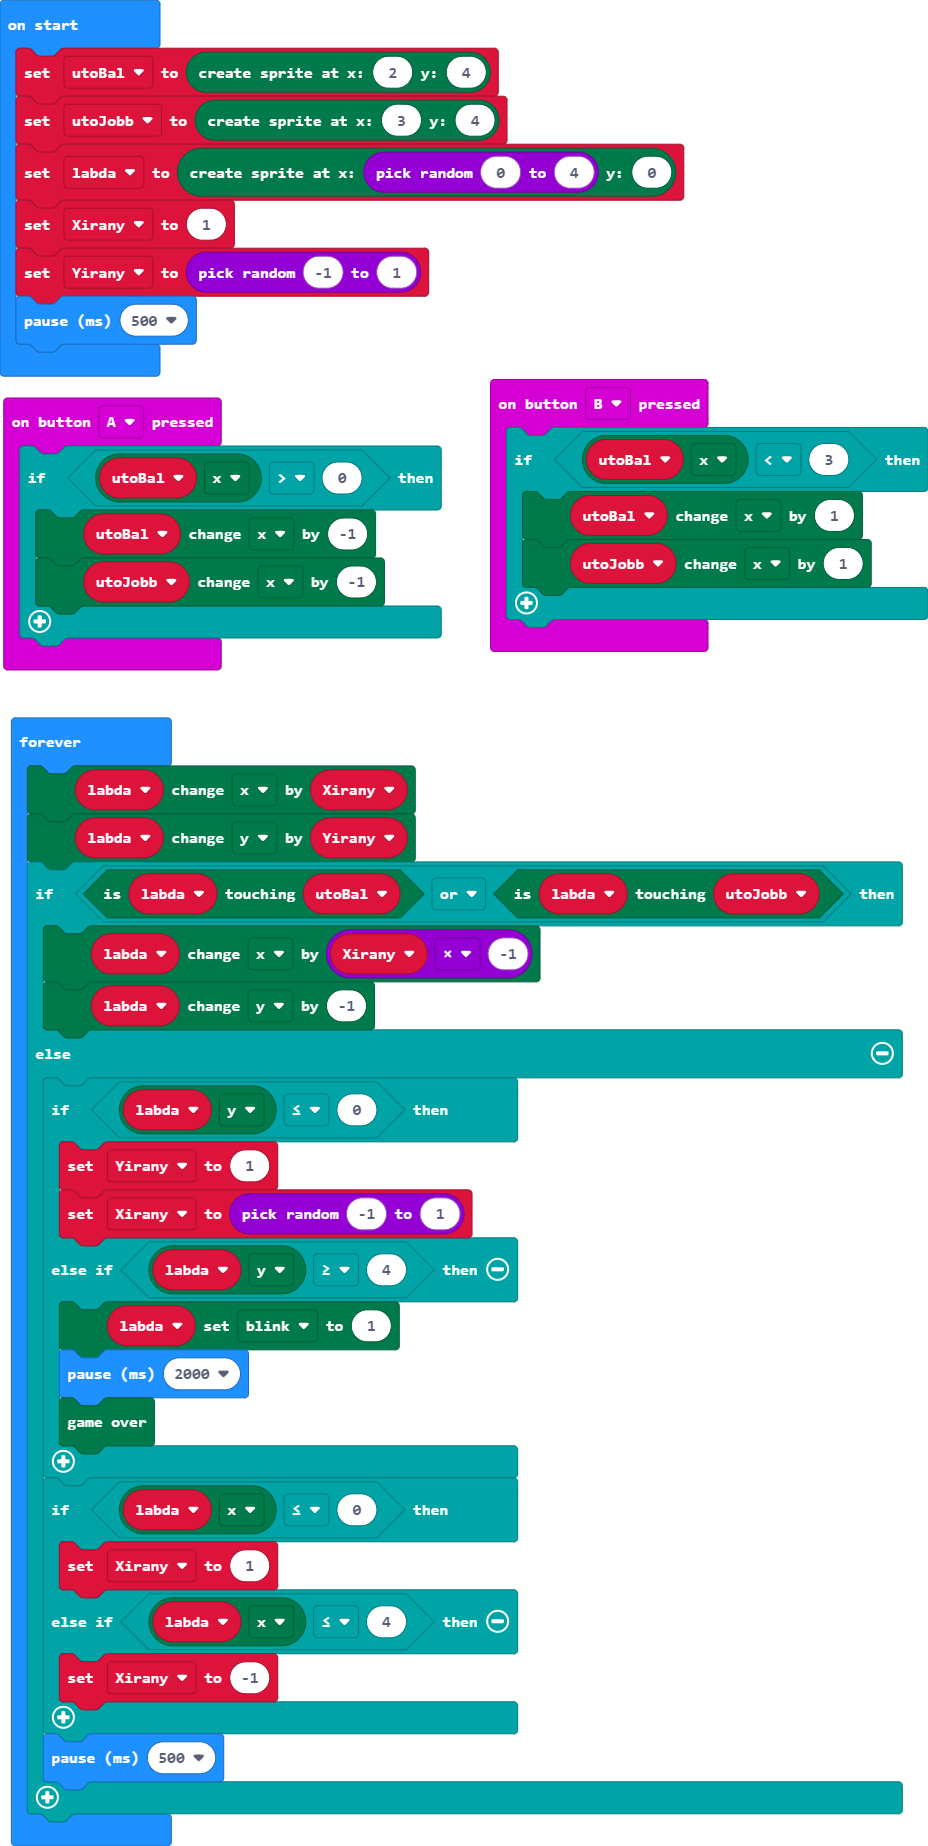
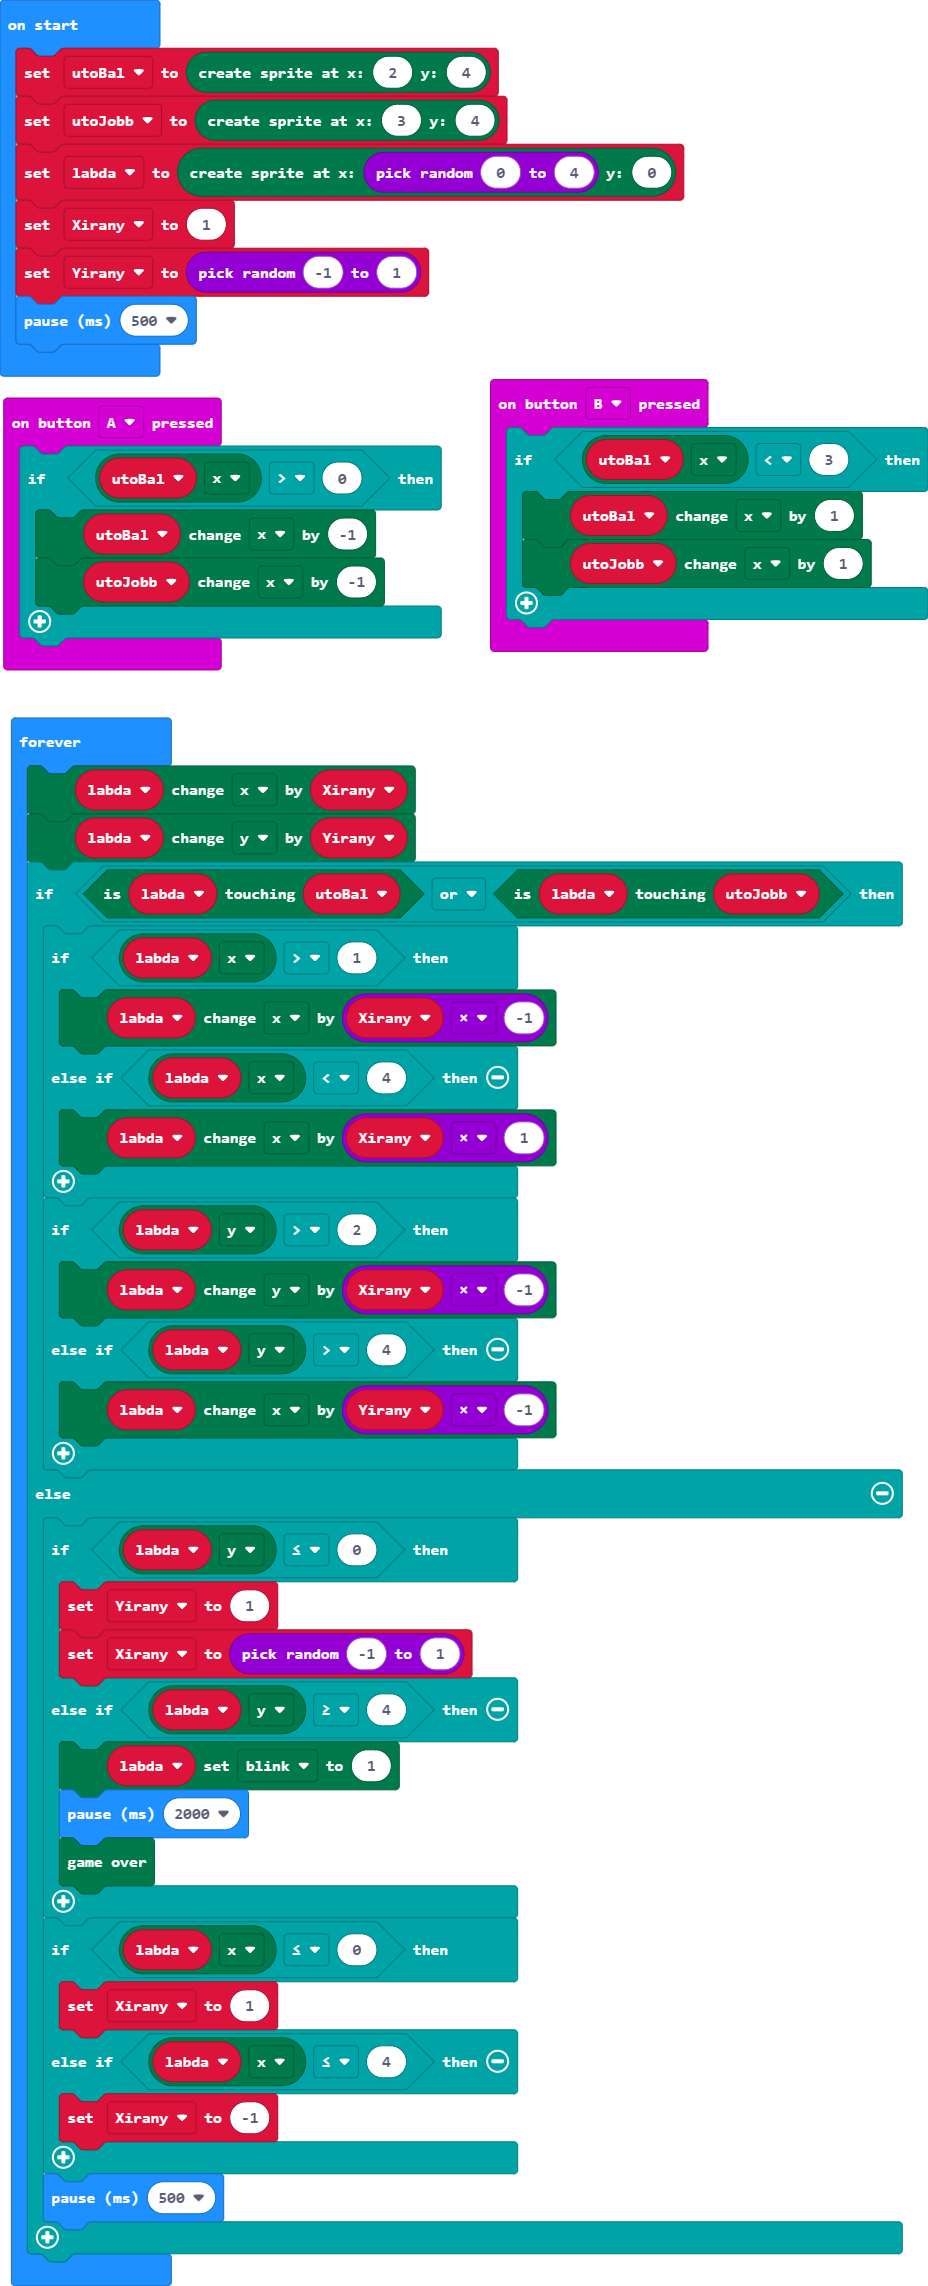
Update main.blocks, main.ts

diff --git a/main.ts b/main.ts
@@ -22,8 +22,16 @@ basic.forever(function () {
     labda.change(LedSpriteProperty.X, Xirany)
     labda.change(LedSpriteProperty.Y, Yirany)
     if (labda.isTouching(utoBal) || labda.isTouching(utoJobb)) {
-        labda.change(LedSpriteProperty.X, Xirany * -1)
-        labda.change(LedSpriteProperty.Y, -1)
+        if (labda.get(LedSpriteProperty.X) > 1) {
+            labda.change(LedSpriteProperty.X, Xirany * -1)
+        } else if (labda.get(LedSpriteProperty.X) < 4) {
+            labda.change(LedSpriteProperty.X, Xirany * 1)
+        }
+        if (labda.get(LedSpriteProperty.Y) > 2) {
+            labda.change(LedSpriteProperty.Y, Xirany * -1)
+        } else if (labda.get(LedSpriteProperty.Y) > 4) {
+            labda.change(LedSpriteProperty.X, Yirany * -1)
+        }
     } else {
         if (labda.get(LedSpriteProperty.Y) <= 0) {
             Yirany = 1
